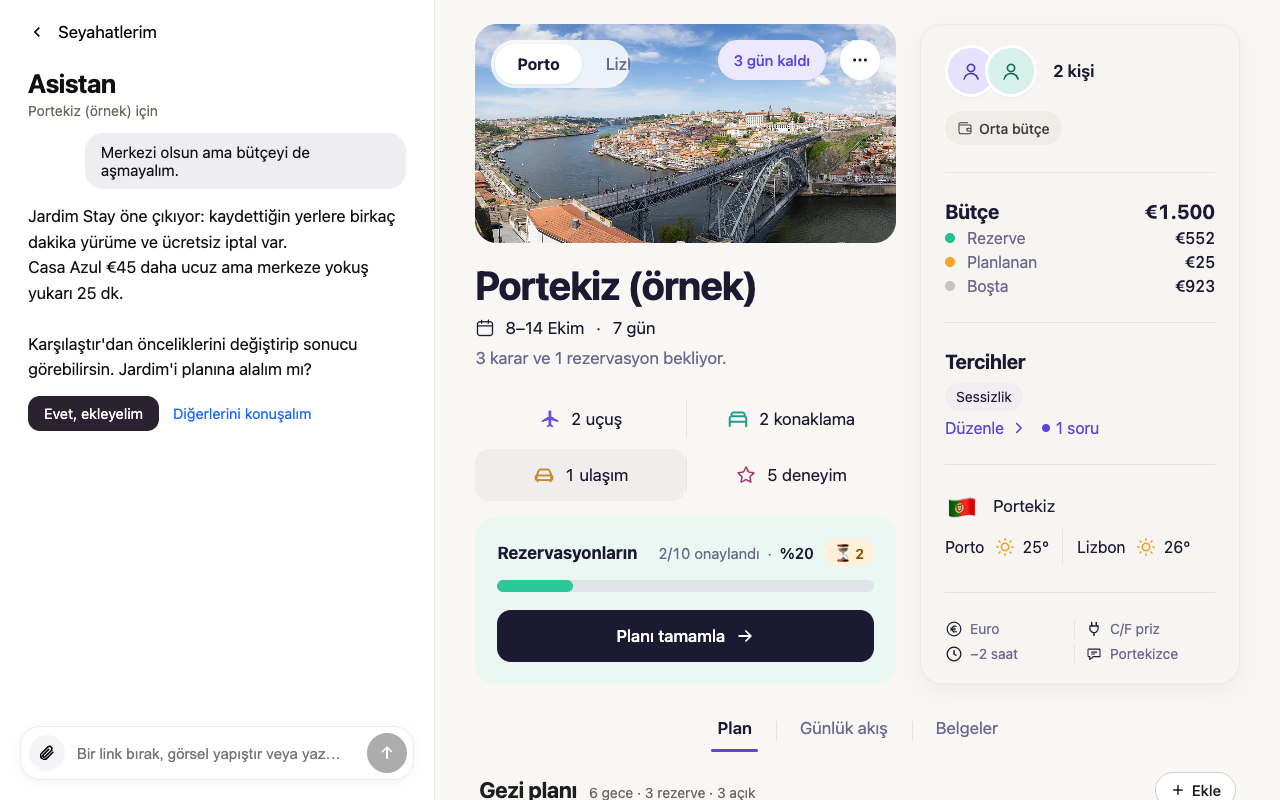
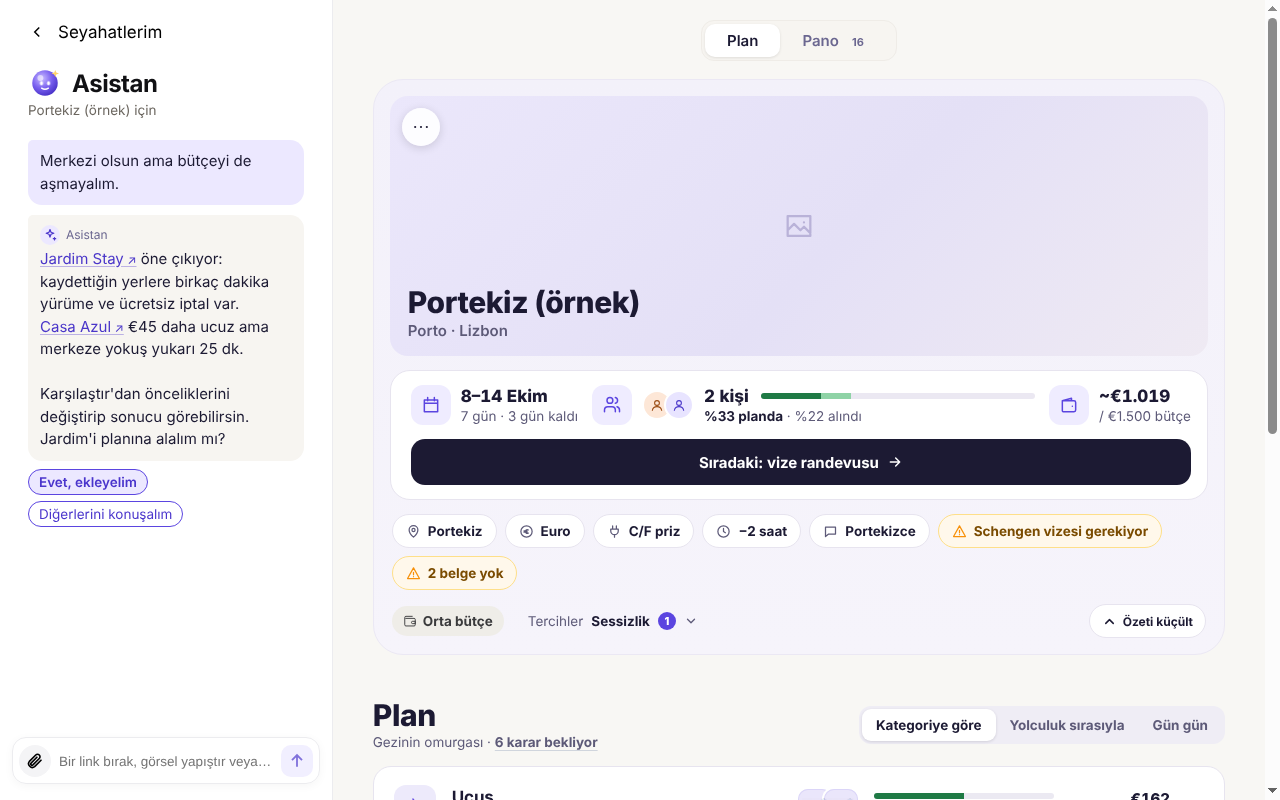
Mağaza: yeni tasarımı anlatan metin ve 4 ekran görüntüsü; scripts/store-shots.mjs
Metin: gezinin özeti, niyet kutuları, Pano karşılaştırması, Etkinlik sıraları, Yolculuk sırasıyla ve Bugün,
Hazırlık; "oy" yerine beğeni (♥, B16). Görüntüler 1280×800, örnek gezi Portekiz: hero ve plan, Konaklama'nın niyet
kutuları, Etkinlik ve turlar'ın Planında ve Öneriler sıraları, Yolculuk sırasıyla. Betik e2e'nin "fare var" ayarıyla,
fotoğraf kaynaklarını geçirir, gerisini kapatır; bu makinede kaynaklara ulaşılamadığı için --offline ile çekildi
(hero düz kapak).

Claude-Session: https://claude.ai/code/session_01EajHnpV11wbPHt5sZitevU

diff --git a/store/listing.md b/store/listing.md
@@ -1,4 +1,4 @@
-# Chrome Web Store kaydı — Trip Radar
+# Chrome Web Store kaydı · Trip Radar
 
 ## Mağaza sayfası
 - **Görünürlük:** Liste dışı (Unlisted): linki olan kurar, aramada çıkmaz.
@@ -7,39 +7,55 @@
 
 ### Kısa açıklama (manifest'ten gelir, ≤132)
 TR: Seyahat seçeneklerini tek tıkla kaydet; AI anlamlandırsın, karşılaştırsın, plana koysun.
+EN: Save travel options in one click; AI reads them, compares them and puts them in your plan.
 
 ### Ayrıntılı açıklama (TR)
-Trip Radar, gezini planlarken bulduğun her şeyi tek yerde toplar.
+Trip Radar, gezini planlarken bulduğun her şeyi tek yerde toplar ve neyin kaldığını bir bakışta gösterir.
 
 • Gezerken kaydet: bir otel sayfası, bir uçuş, bir video, bir blog önerisi… "Kaydet"e bas, gerisini Trip Radar
   okur: fiyat, tarih, konum, puan.
-• Karar ver: Seçenekleri senin önceliklerine göre karşılaştırır, artısını eksisini söyler.
-• Gün gün plan: Uçuş, konaklama, ulaşım, etkinlikler ve fikirlerin gün gün akışa yerleşir; saatleri akıllıca
-  hesaplar (havalimanına ne zaman çıkmalı, check-out ne zaman).
-• Fikir havuzu: Gezilecek yerler ve restoranlar şehir şehir; bir güne koy, yaptıkça işaretle.
-• Birlikte planla: Geziyi arkadaşınla paylaş; kaydettikleriniz ve oylarınız ortak olur.
-• Belgeler: Biletler ve onaylar gezinin yanında; eksik olan uyarılır.
+• Gezinin özeti: üstte gezinin fotoğraflarıyla bir kapak; altında tarih, kimler gidiyor, bütçe ve hazırlık
+  ("%61 planda · %33 alındı"). "Sıradaki" düğmesi bir sonraki işi gösterir.
+• Plan kategori kategori: uçuş, konaklama, ulaşım, etkinlikler, yapılacaklar, belgeler ve hazırlık. Her ihtiyaç aynı
+  ölçüde bir kutu: Önerimiz, Seçildi, Alındı tek bakışta. Alınmış olanda fiyat değil, kod, saat ve belge önde.
+• Karar ver: seçenekler Pano'da yan yana; uyum puanı, istediklerin, artısı ve eksisi aynı hizada.
+• Etkinlikler şehir şehir: "Planında" ve "Öneriler" iki sıra; beğendiğini tek dokunuşla plana al.
+• Yolculuk sırasıyla: hazırlıktan dönüşe adım adım, her adımda tek iş. Gezi sırasında "Bugün" şeridi; uçuş günü
+  kapı ve rötar. Gün gün akış da yerinde.
+• Hazırlık: günü gelen işler sırasıyla, gezine göre hazırlanan bir bavul listesi, ülke için bilmen gerekenler.
+• Birlikte planla: geziyi arkadaşınla paylaş; kaydettikleriniz ve beğendikleriniz (♥) ortak olur.
+• Belgeler: biletler ve onaylar kendi kartının yanında; eksik olan uyarılır. PDF olarak indir.
 
 Hesap yok, reklam yok. Verilerin bilgisayarında kalır; yalnız AI'ya ve (paylaşırsan) paylaşım sunucusuna gider.
 
 ### Detailed description (EN)
-Trip Radar collects everything you find while planning a trip in one place.
+Trip Radar collects everything you find while planning a trip in one place, and shows at a glance what's left to do.
 
 • Save as you browse: a hotel page, a flight, a video, a blog tip… press "Save" and Trip Radar reads it: price,
   dates, place, rating.
-• Decide: it compares your options by what matters to you and says the pros and cons.
-• Day by day: flights, stays, getting around, activities and ideas fall into a daily plan, with smart times
-  (when to leave for the airport, when to check out).
-• Idea pool: places to see and restaurants by city; put one on a day, tick it off when done.
-• Plan together: share a trip with a friend; your saves and votes are shared.
-• Documents: tickets and confirmations sit with the trip; a missing one is flagged.
+• The trip at a glance: a cover made of the trip's photos; under it the dates, who's going, the budget and how ready
+  you are ("61% planned · 33% booked"). "Next" takes you to the next thing to do.
+• The plan, part by part: flights, stays, getting around, activities, things to do, documents and prep. Every need is
+  a box of one size: our pick, chosen, booked at a glance. Once booked, the code, the times and the ticket come first,
+  not the price.
+• Decide: options side by side on the Board, with a fit score, what you asked for, pros and cons lined up.
+• Activities city by city: two rows, "On your plan" and "Suggestions"; one tap puts one on the plan.
+• In trip order: from getting ready to coming home, step by step, one thing to do at each. During the trip a "Today"
+  strip; on a flight's day its gate and delay. The day-by-day view is still there.
+• Prep: what's due, by day; a packing list made for the trip; what's good to know about the country.
+• Plan together: share a trip with a friend; your saves and likes (♥) are shared.
+• Documents: tickets and confirmations sit with their cards; a missing one is flagged. Download the plan as a PDF.
 
 No account, no ads. Your data stays on your computer; it only goes to the AI and (if you share) the sharing server.
 
 ## Görseller
 - Simge 128×128: `static/icons/icon-128.png`
 - Küçük tanıtım 440×280: `store/promo-440x280.png`
-- Ekran görüntüleri 1280×800: `store/screenshot-1-hero.png`, `-2-plan.png`, `-3-activities.png`, `-4-days.png`
+- Ekran görüntüleri 1280×800, örnek gezi (Portekiz): `store/screenshot-1-hero.png` (gezinin özeti ve planın başı),
+  `-2-plan.png` (Konaklama açık: niyet kutuları), `-3-activities.png` (Etkinlik ve turlar: Planında ve Öneriler),
+  `-4-days.png` (Yolculuk sırasıyla).
+- Yeniden çekmek: `npm run build`, sonra `CHROMIUM_PATH=… node scripts/store-shots.mjs`. Fotoğraf kaynaklarına
+  ulaşılabilen bir makinede hero gerçek şehir fotoğraflarıyla çıkar; `--offline` ile fotoğrafsız kapak.
 
 ## Gizlilik sekmesi
 - **Tek amaç (single purpose):** Kaydettiğin seyahat sayfalarını toplayıp karşılaştırmak ve bir gezi planına
